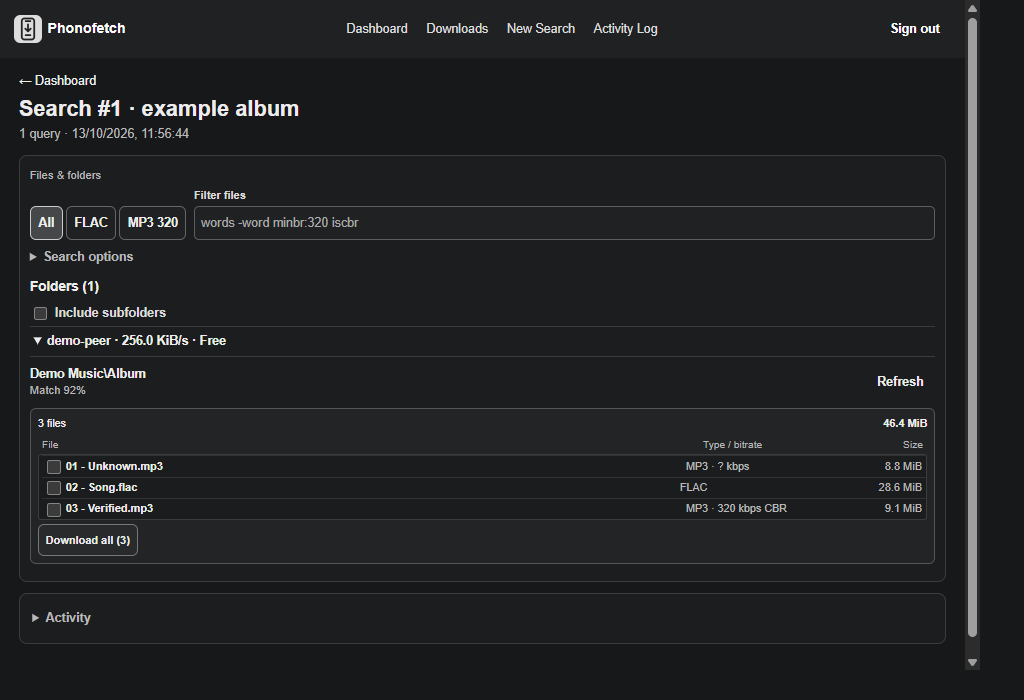
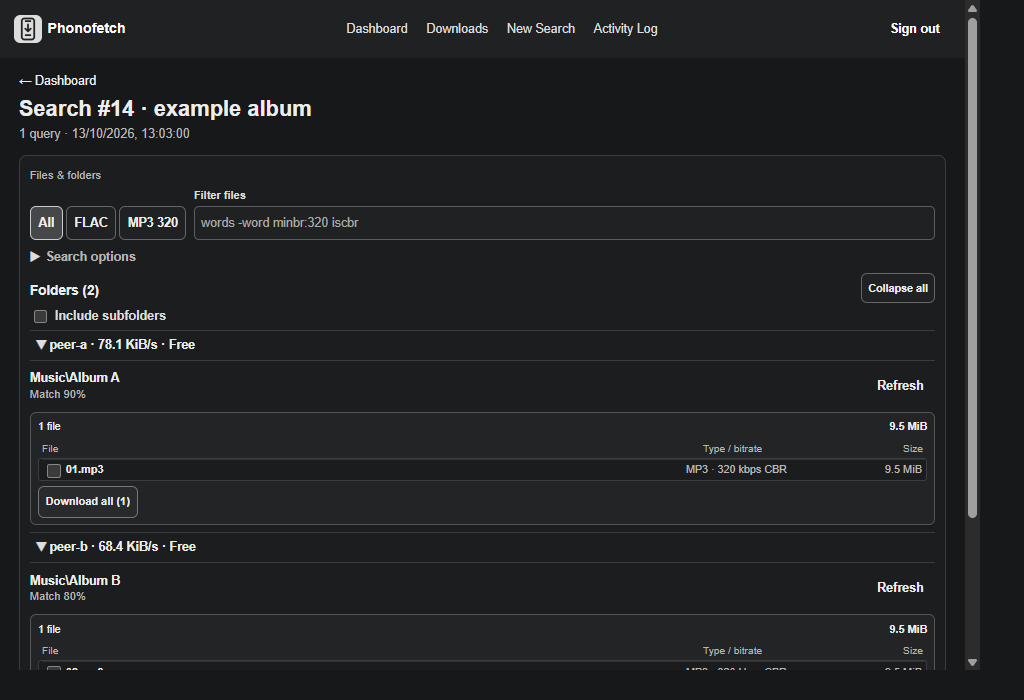
More updates.

diff --git a/src/client/main.tsx b/src/client/main.tsx
@@ -26,6 +26,39 @@ const bytes = (value: number): string => value < 1024 ? `${value} B` :
   value < 1048576 ? `${(value / 1024).toFixed(1)} KiB` :
     value < 1073741824 ? `${(value / 1048576).toFixed(1)} MiB` : `${(value / 1073741824).toFixed(2)} GiB`;
 const basename = (path: string): string => path.split(/[\\/]/).pop() ?? path;
+
+function Collapsible({ children, initiallyOpen, className }: {
+  children: React.ReactNode; initiallyOpen: boolean; className?: string;
+}): React.ReactElement {
+  const [open, setOpen] = useState(initiallyOpen);
+  return <details className={className} open={open}
+    onToggle={event => setOpen(event.currentTarget.open)}>{children}</details>;
+}
+
+function useDisclosureGroup(version: string) {
+  const root = useRef<HTMLDivElement>(null);
+  const [allOpen, setAllOpen] = useState(false);
+  const sync = () => {
+    const details = Array.from(root.current?.querySelectorAll("details") ?? []);
+    setAllOpen(details.length > 0 && details.every(item => item.open));
+  };
+  useEffect(() => {
+    sync();
+    const container = root.current;
+    if (!container) return;
+    const onToggle = () => queueMicrotask(sync);
+    container.addEventListener("toggle", onToggle, true);
+    return () => container.removeEventListener("toggle", onToggle, true);
+  }, [version]);
+  const toggle = () => {
+    const details = Array.from(root.current?.querySelectorAll("details") ?? []);
+    const open = details.some(item => !item.open);
+    for (const item of details) item.open = open;
+    setAllOpen(open);
+  };
+  return { root, allOpen, toggle };
+}
+
 function App(): React.ReactElement {
   const [authenticated, setAuthenticated] = useState<boolean | null>(null);
   const [username, setUsername] = useState("");
@@ -308,6 +341,9 @@ function RequestCard({ request, singleQuery, action, busy, inspecting, previewEr
   const otherCount = [...otherFolders.values()].reduce((count, folders) => count + folders.length, 0);
   const visibleCandidates = request.candidates.filter(matches);
   const eligibleCount = visibleCandidates.filter(candidate => candidate.eligible).length;
+  const fileDisclosures = useDisclosureGroup(`${request.id}:${request.type}:files:${visibleCandidates.length}:${preset}:${filterText}`);
+  const folderDisclosures = useDisclosureGroup(
+    `${request.id}:${request.type}:folders:${request.candidates.length}:${request.previews.length}:${recursive}:${preset}:${filterText}`);
   const canInspect = ["review", "no_results"].includes(request.status) && !request.jobs.length;
   const queueTrack = (candidateId: string) => {
     const candidate = request.candidates.find(item => item.id === candidateId);
@@ -351,7 +387,11 @@ function RequestCard({ request, singleQuery, action, busy, inspecting, previewEr
             void action(() => send(`/requests/${request.id}/retry`,
               { quality: request.type === "search" ? "any" : retryQuality, longer: true }));
         }}>Search longer</button></div></details>}
-    {request.type === "track" && request.candidates.length > 0 && <div><h3>Files ({visibleCandidates.length})</h3>
+    {request.type === "track" && request.candidates.length > 0 && <div>
+      <div className="result-section-heading"><h3>Files ({visibleCandidates.length})</h3>
+        {visibleCandidates.length > 0 && <button className="secondary" type="button" onClick={fileDisclosures.toggle}>
+          {fileDisclosures.allOpen ? "Collapse all" : "Expand all"}</button>}</div>
+      <div ref={fileDisclosures.root}>
       {eligibleCount > 0 ? <TrackResultsTable candidates={visibleCandidates.filter(candidate => candidate.eligible)}
         canQueue={request.status === "review" && !request.transfers.length && !busy} queueTrack={queueTrack}
         openMenu={(candidateId, x, y) => setTrackMenu({ candidateId, x, y })} /> :
@@ -364,10 +404,13 @@ function RequestCard({ request, singleQuery, action, busy, inspecting, previewEr
       {trackMenu && request.status === "review" && !request.transfers.length && !busy &&
         <ContextMenu x={trackMenu.x} y={trackMenu.y} label="Download file"
         onDownload={() => queueTrack(trackMenu.candidateId)} onClose={() => setTrackMenu(null)} />}
-    </div>}
+      </div></div>}
     {(request.type === "album_folder" || request.type === "search") && request.candidates.length > 0 && <div>
-      <h3>Folders ({matchingCount + otherCount})</h3>
+      <div className="result-section-heading"><h3>Folders ({matchingCount + otherCount})</h3>
+        {matchingCount + otherCount > 0 && <button className="secondary" type="button" onClick={folderDisclosures.toggle}>
+          {folderDisclosures.allOpen ? "Collapse all" : "Expand all"}</button>}</div>
       <label className="check"><input type="checkbox" checked={recursive} onChange={event => setRecursive(event.target.checked)} /> Include subfolders</label>
+      <div ref={folderDisclosures.root}>
       {matchingCount > 0 ? <FolderCandidateList request={request} peers={matchingFolders} recursive={recursive}
         canInspect={canInspect} busy={busy} inspecting={inspecting} previewErrors={previewErrors}
         clearPreviewError={clearPreviewError} action={action} queueTrack={queueTrack}
@@ -380,6 +423,7 @@ function RequestCard({ request, singleQuery, action, busy, inspecting, previewEr
           clearPreviewError={clearPreviewError} action={action} queueTrack={queueTrack}
           matches={matches} filterKey={`${preset}:${filterText}`} />
       </details>}
+      </div>
     </div>}
     {request.jobs.map(job => <div key={job.id} className="job"><h3>Folder job · {job.status}</h3>
       <p>{job.username} · {job.directory} · selected {bytes(job.estimated_bytes)}</p>
@@ -400,7 +444,7 @@ function FolderCandidateList({ request, peers, recursive, canInspect, busy, insp
   action: (fn: () => Promise<unknown>) => Promise<void>; queueTrack: (candidateId: string) => void;
   matches: (file: Pick<RemoteFile, "path" | "size" | "metadata">) => boolean; filterKey: string;
 }): React.ReactElement {
-  return <>{[...peers].sort((a, b) => peerOrder(a[1][0]?.[1][0], b[1][0]?.[1][0])).map(([username, folders]) => <details className="peer-group" open key={username}>
+  return <>{[...peers].sort((a, b) => peerOrder(a[1][0]?.[1][0], b[1][0]?.[1][0])).map(([username, folders]) => <Collapsible className="peer-group" initiallyOpen key={username}>
     <summary>{username}{folders.length > 1 ? ` (${folders.length})` : ""} · {peerDetails(folders[0]?.[1][0])}</summary>{folders.map(([key, hits]) => {
       const candidate = hits[0]!;
       const preview = request.previews.find(item =>
@@ -440,7 +484,7 @@ function FolderCandidateList({ request, peers, recursive, canInspect, busy, insp
         </div>}
       {previewErrors[key] && !preview && <small role="alert" className="warn">Inspection failed: {previewErrors[key]}. Select Inspect to retry.</small>}
       </div>;
-    })}</details>)}</>;
+    })}</Collapsible>)}</>;
 }
 
 function peerOrder(a?: Candidate, b?: Candidate): number {
@@ -468,8 +512,8 @@ function TrackResultsTable({ candidates, canQueue, queueTrack, openMenu }: {
     directories.set(candidate.directory, files);
   }
   return <div className="search-results">{[...peers].map(([username, directories]) =>
-    <details className="peer-group" open key={username}><summary>{username} · {peerDetails([...directories.values()][0]?.[0])}</summary>
-      {[...directories].map(([directory, files]) => <details className="directory-group" open key={directory}>
+    <Collapsible className="peer-group" initiallyOpen key={username}><summary>{username} · {peerDetails([...directories.values()][0]?.[0])}</summary>
+      {[...directories].map(([directory, files]) => <Collapsible className="directory-group" initiallyOpen key={directory}>
         <summary>{directory || "Shared files"} · {files.length} · {bytes(files.reduce((sum, file) => sum + file.size, 0))}</summary>
         <div className="search-table-wrap"><table className="search-table"><thead><tr>
           <th>File</th><th>Size</th><th>Type / bitrate</th><th>Match</th><th>Action</th>
@@ -492,8 +536,8 @@ function TrackResultsTable({ candidates, canQueue, queueTrack, openMenu }: {
           <td title={candidate.explanation}>{Math.round(candidate.score * 100)}%</td>
           <td>{canQueue && <button onClick={() => queueTrack(candidate.id)}>Queue file</button>}</td>
         </tr>)}</tbody></table></div>
-      </details>)}
-    </details>)}</div>;
+      </Collapsible>)}
+    </Collapsible>)}</div>;
 }
 
 function ContextMenu({ x, y, label, onDownload, onClose }: {
@@ -554,7 +598,7 @@ function FolderTree({ preview, files, selected, onSelect, onFileMenu, canQueue }
     return <ul className="folder-tree">
       {[...node.directories.values()].sort((a, b) => a.name.localeCompare(b.name)).map(child => {
         const total = totals(child);
-        return <li key={child.name}><details open><summary>{child.name}/ <small>{total.count} file{total.count === 1 ? "" : "s"} · {bytes(total.size)}</small></summary>{render(child)}</details></li>;
+        return <li key={child.name}><Collapsible initiallyOpen><summary>{child.name}/ <small>{total.count} file{total.count === 1 ? "" : "s"} · {bytes(total.size)}</small></summary>{render(child)}</Collapsible></li>;
       })}
       {node.files.map(file => {
         const details = audioDetails(file.metadata, file.path);
@@ -601,7 +645,7 @@ function Preview({ preview, visibleFiles, filterActive, busy, canQueue, confirmP
   };
   const selectedPaths = selectedFiles.map(file => file.path);
   return <div className="preview folder-preview">
-    <div className="folder-summary"><span>{visibleFiles.length}{filterActive && ` of ${preview.files.length}`} files
+    <div className="folder-summary"><span>{visibleFiles.length}{filterActive && ` of ${preview.files.length}`} file{visibleFiles.length === 1 ? "" : "s"}
       {preview.recursive ? " incl. subfolders" : ""}
       {excluded.length > 0 && ` · ${eligible.length} selectable · ${excluded.length} blocked`}</span>
       <strong>{bytes(visibleFiles.reduce((sum, file) => sum + file.size, 0))}
@@ -645,6 +689,7 @@ function TransferActions({ transfer, action, busy }: { transfer: TransferItem;
 function DownloadTree({ items, action, busy, expandFolders }: { items: DownloadItem[];
   action: (fn: () => Promise<unknown>) => Promise<void>; busy: boolean; expandFolders: boolean;
 }): React.ReactElement {
+  const disclosures = useDisclosureGroup(items.map(item => `${item.id}:${item.status}`).join("|"));
   const peers = new Map<string, Map<string, DownloadItem[]>>();
   for (const item of items) {
     let folders = peers.get(item.username);
@@ -654,17 +699,19 @@ function DownloadTree({ items, action, busy, expandFolders }: { items: DownloadI
     files.push(item);
     folders.set(directory, files);
   }
-  return <div className="download-tree">{[...peers].map(([username, folders]) => {
+  return <><div className="disclosure-toolbar"><button className="secondary" type="button"
+    onClick={disclosures.toggle}>{disclosures.allOpen ? "Collapse all" : "Expand all"}</button></div>
+    <div className="download-tree" ref={disclosures.root}>{[...peers].map(([username, folders]) => {
     const peerFiles = [...folders.values()].flat();
-    return <details className="download-peer" open key={username}>
+    return <Collapsible className="download-peer" initiallyOpen key={username}>
       <summary><strong>{username}</strong><small>{peerFiles.length} file{peerFiles.length === 1 ? "" : "s"} · {bytes(peerFiles.reduce((sum, file) => sum + file.size, 0))}</small></summary>
-      {[...folders].map(([directory, files]) => <details className="download-folder" open={expandFolders} key={directory}>
+      {[...folders].map(([directory, files]) => <Collapsible className="download-folder" initiallyOpen={expandFolders} key={directory}>
         <summary><strong title={directory}>{directory || "Shared files"}</strong>
           <small>{files.length} file{files.length === 1 ? "" : "s"} · {bytes(files.reduce((sum, file) => sum + file.size, 0))}</small></summary>
         {files.map(item => <DownloadRow key={item.id} item={item} action={action} busy={busy} />)}
-      </details>)}
-    </details>;
-  })}</div>;
+      </Collapsible>)}
+    </Collapsible>;
+  })}</div></>;
 }
 
 function DownloadRow({ item, action, busy }: { item: DownloadItem;

diff --git a/src/client/compact.css b/src/client/compact.css
@@ -92,6 +92,13 @@ nav a.current, nav a:hover { background: #343537; color: #fff; text-decoration: 
 .panel-heading { display: flex; align-items: start; justify-content: space-between; gap: .75rem; margin-bottom: .75rem; }
 .panel-heading > span, .panel-heading small { color: var(--muted); }
 .panel-heading > a { flex: none; font-weight: 600; }
+details > summary { list-style: none; }
+details > summary::-webkit-details-marker { display: none; }
+details > summary::before { content: "\25B6"; display: inline-block; flex: none; width: 1rem; margin-right: .25rem; color: #ddd; }
+details[open] > summary::before { transform: rotate(90deg); }
+details > summary:focus-visible { outline: 2px solid #bcbcbc; outline-offset: 2px; }
+.disclosure-toolbar { display: flex; justify-content: flex-end; margin: -.4rem 0 .2rem; }
+.disclosure-toolbar button, .result-section-heading button { min-height: 30px; padding: .2rem .5rem; font-size: .86rem; }
 .metrics { display: grid; grid-template-columns: repeat(6, minmax(0, 1fr)); overflow: hidden; margin-bottom: .85rem; border: 1px solid var(--line); border-radius: 6px; background: var(--surface); }
 .metric { display: flex; flex-direction: row-reverse; align-items: center; justify-content: space-between; gap: .3rem; min-width: 0; min-height: 44px; padding: .35rem .6rem; border-right: 1px solid var(--line); }
 .metric:last-child { border-right: 0; }
@@ -105,10 +112,10 @@ nav a.current, nav a:hover { background: #343537; color: #fff; text-decoration: 
 .download-source { overflow-wrap: anywhere; }
 .download-controls { display: flex; flex-wrap: wrap; gap: .5rem; margin: 0 0 .85rem; }
 .download-tree > details { border-top: 1px solid var(--line); }
-.download-tree summary { display: flex; align-items: baseline; justify-content: space-between; gap: .6rem;
+.download-tree summary { display: flex; align-items: baseline; justify-content: flex-start; gap: .35rem;
   padding: .35rem .3rem; cursor: pointer; overflow-wrap: anywhere; }
-.download-tree summary strong { min-width: 0; }
-.download-tree summary small { flex: none; font-variant-numeric: tabular-nums; }
+.download-tree summary strong { min-width: 0; flex: 1 1 auto; }
+.download-tree summary small { flex: none; margin-left: auto; font-variant-numeric: tabular-nums; }
 .download-folder { margin-left: .7rem; border-top: 1px solid #303133; }
 .download-folder > summary { color: var(--muted); }
 .download-row { display: grid; grid-template-columns: minmax(0, 1fr) minmax(160px, 30%) 165px 68px;
@@ -183,6 +190,8 @@ nav a.current, nav a:hover { background: #343537; color: #fff; text-decoration: 
 .status.failed, .status.partial, .status.uncertain { background: #48494b; color: #fff; }
 .status.review, .status.no_results { background: #393a3c; color: #eee; }
 .request h3 { margin: .7rem 0 .25rem; }
+.result-section-heading { display: flex; align-items: center; justify-content: space-between; gap: .5rem; }
+.result-section-heading h3 { margin: .65rem 0 .2rem; }
 .retry-options { margin: .3rem 0; }
 .retry-options > summary, .search-activity > summary { padding: .3rem 0; cursor: pointer; color: var(--muted); font-weight: 600; }
 .retry-options .retry { margin: .35rem 0; }

diff --git a/README.md b/README.md
@@ -13,7 +13,7 @@ Phonofetch is a self-hosted, phone-friendly search and download manager for an *
 - Select files with checkboxes and **Download selected**, use **Download all** for the eligible files in a folder, or right-click a file. A track search downloads one selected file.
 - Results start on **All**. After searching, filter by **FLAC**, **MP3 320** (peer-reported bitrate), or terms such as `-live`, `minbr:320` and `iscbr`. Add `iscbr` if confirmed constant bitrate is required. Unknown-bitrate files remain visible and selectable under All.
 - Searches collect responses for about five seconds, then show quality-checked matches with peer-reported upload speed and free-slot status. Use **Search longer** if a fast search misses later peers; it replaces that query's results.
-- The Dashboard shows recent downloads and searches. Each search can contain multiple queries (one per line). **Downloads** groups active and finished transfers by peer and folder, with inline progress and completed-file statistics. **Clear finished list** hides only finished entries; **Clear statistics** resets the totals separately. Neither deletes files or cancels an active transfer.
+- The Dashboard shows recent downloads and searches. Each search can contain multiple queries (one per line). **Downloads** groups active and finished transfers by peer and folder, with inline progress and expand/collapse controls. **Clear finished list** hides only finished entries; **Clear statistics** resets the totals separately. Neither deletes files or cancels an active transfer.
 - **New Search** asks only for text. Queue one search hit or select files from an inspected folder. Automatic track or whole-album downloading is optional under **Automatic download**, with an explicit quality requirement.
 
 ## Install
